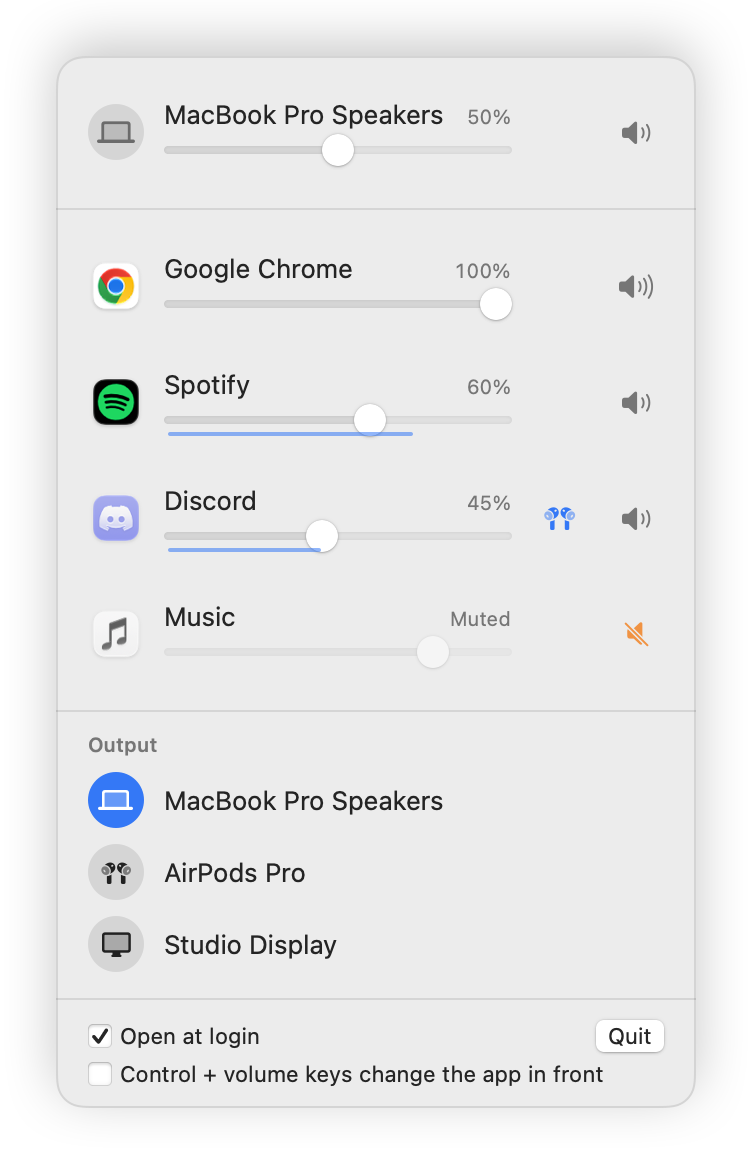
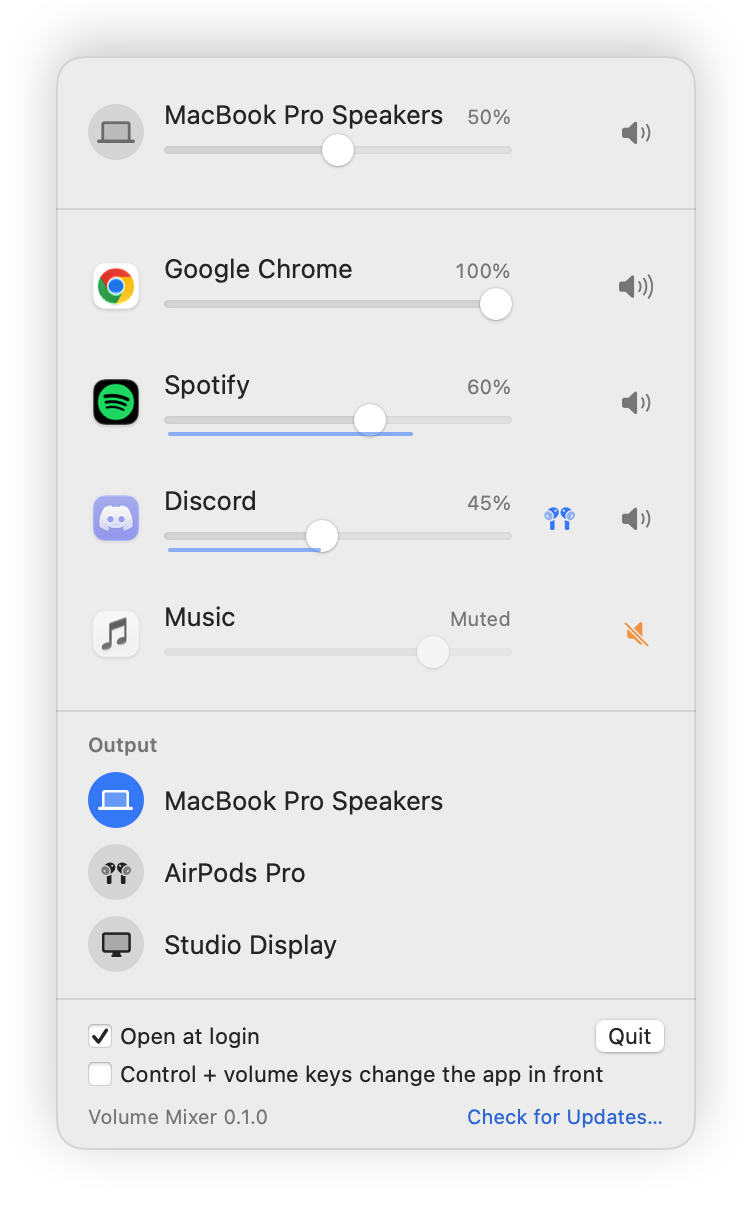
feat: in-app updates with Sparkle
Sparkle 2 comes in through SwiftPM and ships inside the app in
Contents/Frameworks, signed from the inside out before the app. Its XPC
services are left out: they are only needed by sandboxed apps.

- Automatic checks are on by default (SUEnableAutomaticChecks). A check
  that finds an update in the background shows it right away only after
  launch or idle; otherwise the panel footer says "Update Available…"
- The footer shows the version and "Check for Updates…"
- The feed is https://rokoov.github.io/volume-mixer/appcast.xml, served
  by GitHub Pages from docs/ on main. Until Info.plist holds the real
  EdDSA public key the updater stays off
- scripts/appcast.sh signs a release zip with sign_update and adds it to
  docs/appcast.xml, with optional plain text release notes;
  scripts/sparkle-tools.sh fetches the Sparkle tools for the pinned version
- The bundle parts are copied without extended attributes, which iCloud
  Drive adds and codesign refuses

diff --git a/Sources/VolumeMixer/App/Updater.swift b/Sources/VolumeMixer/App/Updater.swift
@@ -1,0 +1,85 @@
+import AppKit
+import Observation
+import Sparkle
+
+/// In-app updates through Sparkle: automatic checks in the background, and "Check for Updates…" in
+/// the panel. A build whose Info.plist still holds the placeholder key (a local build, or one made
+/// before the release keys exist) never starts Sparkle, which cannot verify downloads without a key
+/// and would report an error at every launch.
+@MainActor
+@Observable
+final class Updater: NSObject {
+    /// What Info.plist holds until `generate_keys` has made the real key (docs/RELEASING.md).
+    static let placeholderKey = "REPLACE_WITH_YOUR_PUBLIC_ED_KEY"
+
+    private(set) var isConfigured: Bool
+    private(set) var canCheckForUpdates = false
+    /// A background check found an update and left it for the panel to mention.
+    private(set) var isUpdateWaiting = false
+
+    @ObservationIgnored private var controller: SPUStandardUpdaterController?
+    @ObservationIgnored private var canCheckObservation: NSKeyValueObservation?
+
+    override init() {
+        let key = Bundle.main.object(forInfoDictionaryKey: "SUPublicEDKey") as? String ?? ""
+        isConfigured = !key.isEmpty && key != Self.placeholderKey
+        super.init()
+    }
+
+    func start() {
+        guard isConfigured, controller == nil else { return }
+        let controller = SPUStandardUpdaterController(
+            startingUpdater: true,
+            updaterDelegate: nil,
+            userDriverDelegate: self
+        )
+        self.controller = controller
+        canCheckObservation = controller.updater.observe(\.canCheckForUpdates, options: [.initial, .new]) {
+            [weak self] updater, _ in
+            let canCheck = updater.canCheckForUpdates
+            Task { @MainActor in self?.canCheckForUpdates = canCheck }
+        }
+    }
+
+    func checkForUpdates() {
+        // A menu bar app is not the active app, so Sparkle's window would open behind the others.
+        NSApp.activate()
+        controller?.checkForUpdates(nil)
+    }
+
+    /// The button as a released build shows it, for `--snapshot-demo`. Sparkle is not started.
+    func showDemo() {
+        isConfigured = true
+        canCheckForUpdates = true
+    }
+}
+
+extension Updater: SPUStandardUserDriverDelegate {
+    /// A menu bar app has no Dock icon to bounce: an update found in the background waits in the
+    /// panel instead of opening a window over whatever the user is doing.
+    nonisolated var supportsGentleScheduledUpdateReminders: Bool { true }
+
+    nonisolated func standardUserDriverShouldHandleShowingScheduledUpdate(
+        _ update: SUAppcastItem,
+        andInImmediateFocus immediateFocus: Bool
+    ) -> Bool {
+        // Right after launch or after the Mac sat idle, Sparkle's own window is welcome.
+        immediateFocus
+    }
+
+    nonisolated func standardUserDriverWillHandleShowingUpdate(
+        _ handleShowingUpdate: Bool,
+        forUpdate update: SUAppcastItem,
+        state: SPUUserUpdateState
+    ) {
+        Task { @MainActor in self.isUpdateWaiting = !handleShowingUpdate }
+    }
+
+    nonisolated func standardUserDriverDidReceiveUserAttention(forUpdate update: SUAppcastItem) {
+        Task { @MainActor in self.isUpdateWaiting = false }
+    }
+
+    nonisolated func standardUserDriverWillFinishUpdateSession() {
+        Task { @MainActor in self.isUpdateWaiting = false }
+    }
+}

diff --git a/Sources/VolumeMixer/Mixer/PanelSnapshot.swift b/Sources/VolumeMixer/Mixer/PanelSnapshot.swift
@@ -14,10 +14,12 @@ enum PanelSnapshot {
     static func write(to directory: String, demo: Bool) {
         NSApplication.shared.setActivationPolicy(.prohibited)
         let model = MixerModel()
+        let updater = Updater()
         model.routesAudio = false
         if demo {
             model.showDemo(DemoContent.entries)
             model.meters.showDemo(DemoContent.meterBars)
+            updater.showDemo()
             model.output.showDemo(
                 name: DemoContent.devices[0].name,
                 symbolName: DemoContent.devices[0].symbolName,
@@ -30,7 +32,11 @@ enum PanelSnapshot {
 
         for (name, appearanceName) in [("light", NSAppearance.Name.aqua), ("dark", .darkAqua)] {
             guard let appearance = NSAppearance(named: appearanceName) else { continue }
-            write(render(framed(MixerPanel(model: model)), appearance: appearance), as: "panel-\(name)", in: directory)
+            write(
+                render(framed(MixerPanel(model: model, updater: updater)), appearance: appearance),
+                as: "panel-\(name)",
+                in: directory
+            )
             if demo {
                 write(render(DemoContent.hud.padding(margin), appearance: appearance), as: "hud-\(name)", in: directory)
             }

diff --git a/Package.swift b/Package.swift
@@ -4,6 +4,10 @@ import PackageDescription
 let package = Package(
     name: "VolumeMixer",
     platforms: [.macOS("14.4")],
+    dependencies: [
+        // Updates. The binary framework is copied into the app by scripts/bundle.sh.
+        .package(url: "https://github.com/sparkle-project/Sparkle", from: "2.10.0")
+    ],
     targets: [
         .target(
             name: "MixerCore",
@@ -11,12 +15,14 @@ let package = Package(
         ),
         .executableTarget(
             name: "VolumeMixer",
-            dependencies: ["MixerCore"],
+            dependencies: ["MixerCore", .product(name: "Sparkle", package: "Sparkle")],
             path: "Sources/VolumeMixer",
             linkerSettings: [
                 .linkedFramework("AudioToolbox"),
                 .linkedFramework("CoreAudio"),
                 .linkedFramework("ServiceManagement"),
+                // The app carries Sparkle.framework in Contents/Frameworks.
+                .unsafeFlags(["-Xlinker", "-rpath", "-Xlinker", "@executable_path/../Frameworks"]),
             ]
         ),
         // Command Line Tools ship neither XCTest nor Swift Testing, so the checks are a plain executable.

diff --git a/Sources/VolumeMixer/Views/UpdateRow.swift b/Sources/VolumeMixer/Views/UpdateRow.swift
@@ -1,0 +1,23 @@
+import SwiftUI
+
+/// The last footer line: which version this is, and Sparkle's "Check for Updates…".
+struct UpdateRow: View {
+    let updater: Updater
+    private let version = Bundle.main.object(forInfoDictionaryKey: "CFBundleShortVersionString") as? String ?? "?"
+
+    var body: some View {
+        HStack(spacing: 6) {
+            Text("Volume Mixer \(version)")
+                .foregroundStyle(.secondary)
+            Spacer()
+            Button(updater.isUpdateWaiting ? "Update Available…" : "Check for Updates…") {
+                updater.checkForUpdates()
+            }
+            .buttonStyle(.link)
+            .fontWeight(updater.isUpdateWaiting ? .semibold : .regular)
+            .disabled(!updater.canCheckForUpdates && !updater.isUpdateWaiting)
+            .help(updater.isConfigured ? "" : "This build has no update key, so it cannot update itself.")
+        }
+        .font(.caption)
+    }
+}

diff --git a/Sources/VolumeMixer/App/AppDelegate.swift b/Sources/VolumeMixer/App/AppDelegate.swift
@@ -1,14 +1,16 @@
 import AppKit
 
-/// Owns the model, so routing starts at launch rather than when the panel first opens, and takes
-/// the routes down on the way out.
+/// Owns the model and the updater, so routing starts at launch rather than when the panel first
+/// opens, and takes the routes down on the way out.
 @MainActor
 final class AppDelegate: NSObject, NSApplicationDelegate {
     let model = MixerModel()
+    let updater = Updater()
     private var signalSources: [DispatchSourceSignal] = []
 
     func applicationDidFinishLaunching(_ notification: Notification) {
         model.start()
+        updater.start()
         quitThroughAppKit(on: [SIGTERM, SIGINT])
     }
 

diff --git a/Sources/VolumeMixer/Views/MixerPanel.swift b/Sources/VolumeMixer/Views/MixerPanel.swift
@@ -4,6 +4,7 @@ import SwiftUI
 /// The menu bar panel: the output volume, a row per app, the output devices and the footer.
 struct MixerPanel: View {
     let model: MixerModel
+    let updater: Updater
     @State private var loginItem = LoginItem()
     @State private var isSavingProfile = false
     @Environment(\.accessibilityReduceMotion) private var reduceMotion
@@ -167,6 +168,8 @@ struct MixerPanel: View {
                     .foregroundStyle(.red)
                     .lineLimit(2)
             }
+            UpdateRow(updater: updater)
+                .padding(.top, 4)
         }
         .controlSize(.small)
         .padding(.horizontal, PanelMetrics.padding)

diff --git a/Sources/VolumeMixer/App/VolumeMixerApp.swift b/Sources/VolumeMixer/App/VolumeMixerApp.swift
@@ -5,7 +5,7 @@ struct VolumeMixerApp: App {
 
     var body: some Scene {
         MenuBarExtra {
-            MixerPanel(model: appDelegate.model)
+            MixerPanel(model: appDelegate.model, updater: appDelegate.updater)
         } label: {
             Image(systemName: "slider.horizontal.3")
                 .accessibilityLabel("Volume Mixer")

diff --git a/README.md b/README.md
@@ -18,6 +18,7 @@ process taps that macOS 14.4 and later provide.
   Accessibility permission, asked for when you turn it on)
 - Browsers and Electron apps play sound from helper processes; those fold into their app (Chrome, Safari, Discord)
 - Apps at 100% are never touched. Only apps you turn down or mute go through the mixer
+- Updates itself: checks once a day and asks before installing (Sparkle)
 - Universal app for Apple silicon and Intel Macs
 
 <picture>
@@ -35,7 +36,7 @@ process taps that macOS 14.4 and later provide.
    If you prefer the terminal: `xattr -dr com.apple.quarantine /Applications/VolumeMixer.app`
 3. Click the sliders icon in the menu bar. The first time you turn an app down, macOS asks to let Volume Mixer
    record system audio. Click **Allow**: that is how an app's sound reaches the mixer. Nothing is recorded or
-   saved, and the app makes no network connections.
+   saved. The only network traffic is the update check, which reads the release feed on GitHub.
 
 If you clicked Don't Allow, turn Volume Mixer on under **System Settings → Privacy & Security → Screen & System
 Audio Recording → System Audio Recording Only** and press **Try Again** in the panel. Until then every app plays
@@ -44,6 +45,7 @@ at full volume.
 ## Build from source
 
 Needs macOS 14.4 or later and Swift 5.9 or later. The Command Line Tools are enough (`xcode-select --install`).
+The first build fetches [Sparkle](https://sparkle-project.org) through SwiftPM.
 
 ```sh
 scripts/build.sh            # builds build/VolumeMixer.app for this Mac
@@ -52,6 +54,7 @@ scripts/build.sh install    # copies it to /Applications and launches it
 scripts/format.sh           # formats the code with swift-format
 scripts/check.sh            # formatting, build without warnings, core checks, bundle checks
 scripts/release.sh          # universal app zipped for a release
+scripts/appcast.sh <zip>    # signs a release zip and adds it to the update feed
 ```
 
 The code follows the formatting of Apple's SwiftNIO (`.swift-format`): `scripts/format.sh` applies it and
@@ -77,7 +80,7 @@ disappears, helpers show under their own names.
 | `Sources/VolumeMixer/CoreAudio` | Audio clients, process taps, the capture check, output devices |
 | `Sources/VolumeMixer/Mixer` | `MixerModel`, `RouteManager` and `CaptureCheckController`: what is routed, when and where |
 | `Sources/VolumeMixer/Views` | The menu bar panel, one view per file |
-| `Sources/VolumeMixer/App` | Entry point, app delegate, login item, logging |
+| `Sources/VolumeMixer/App` | Entry point, app delegate, login item, updates, logging |
 | `Checks/MixerCoreChecks` | Checks for `MixerCore`, run by `scripts/check.sh` |
 
 ## Known issues
